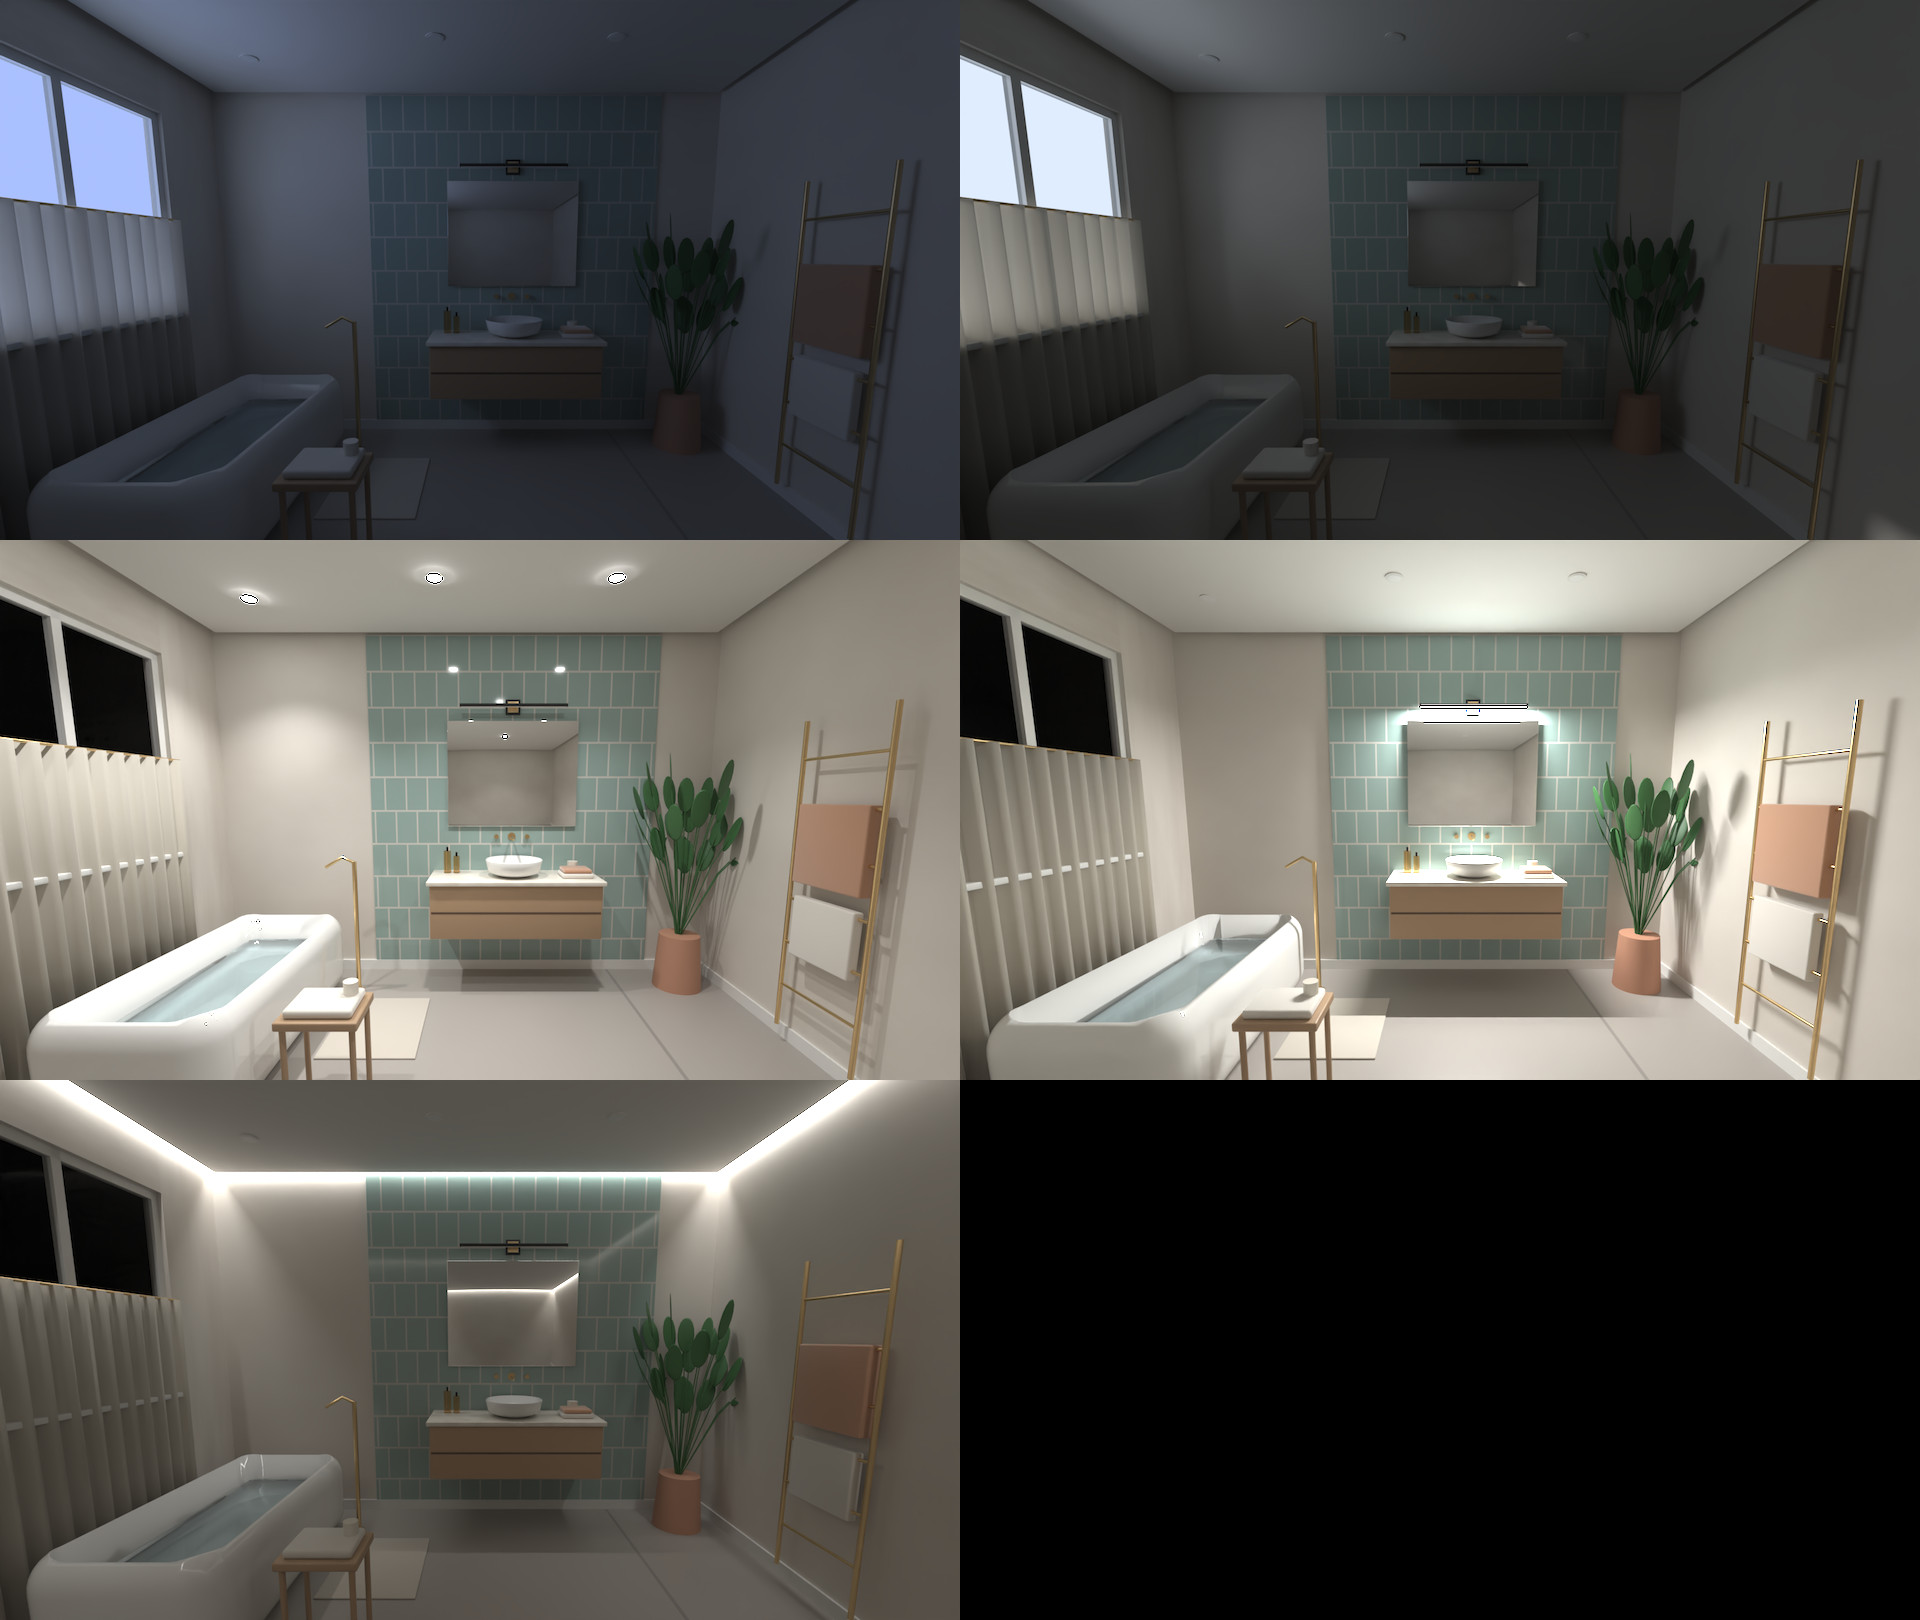
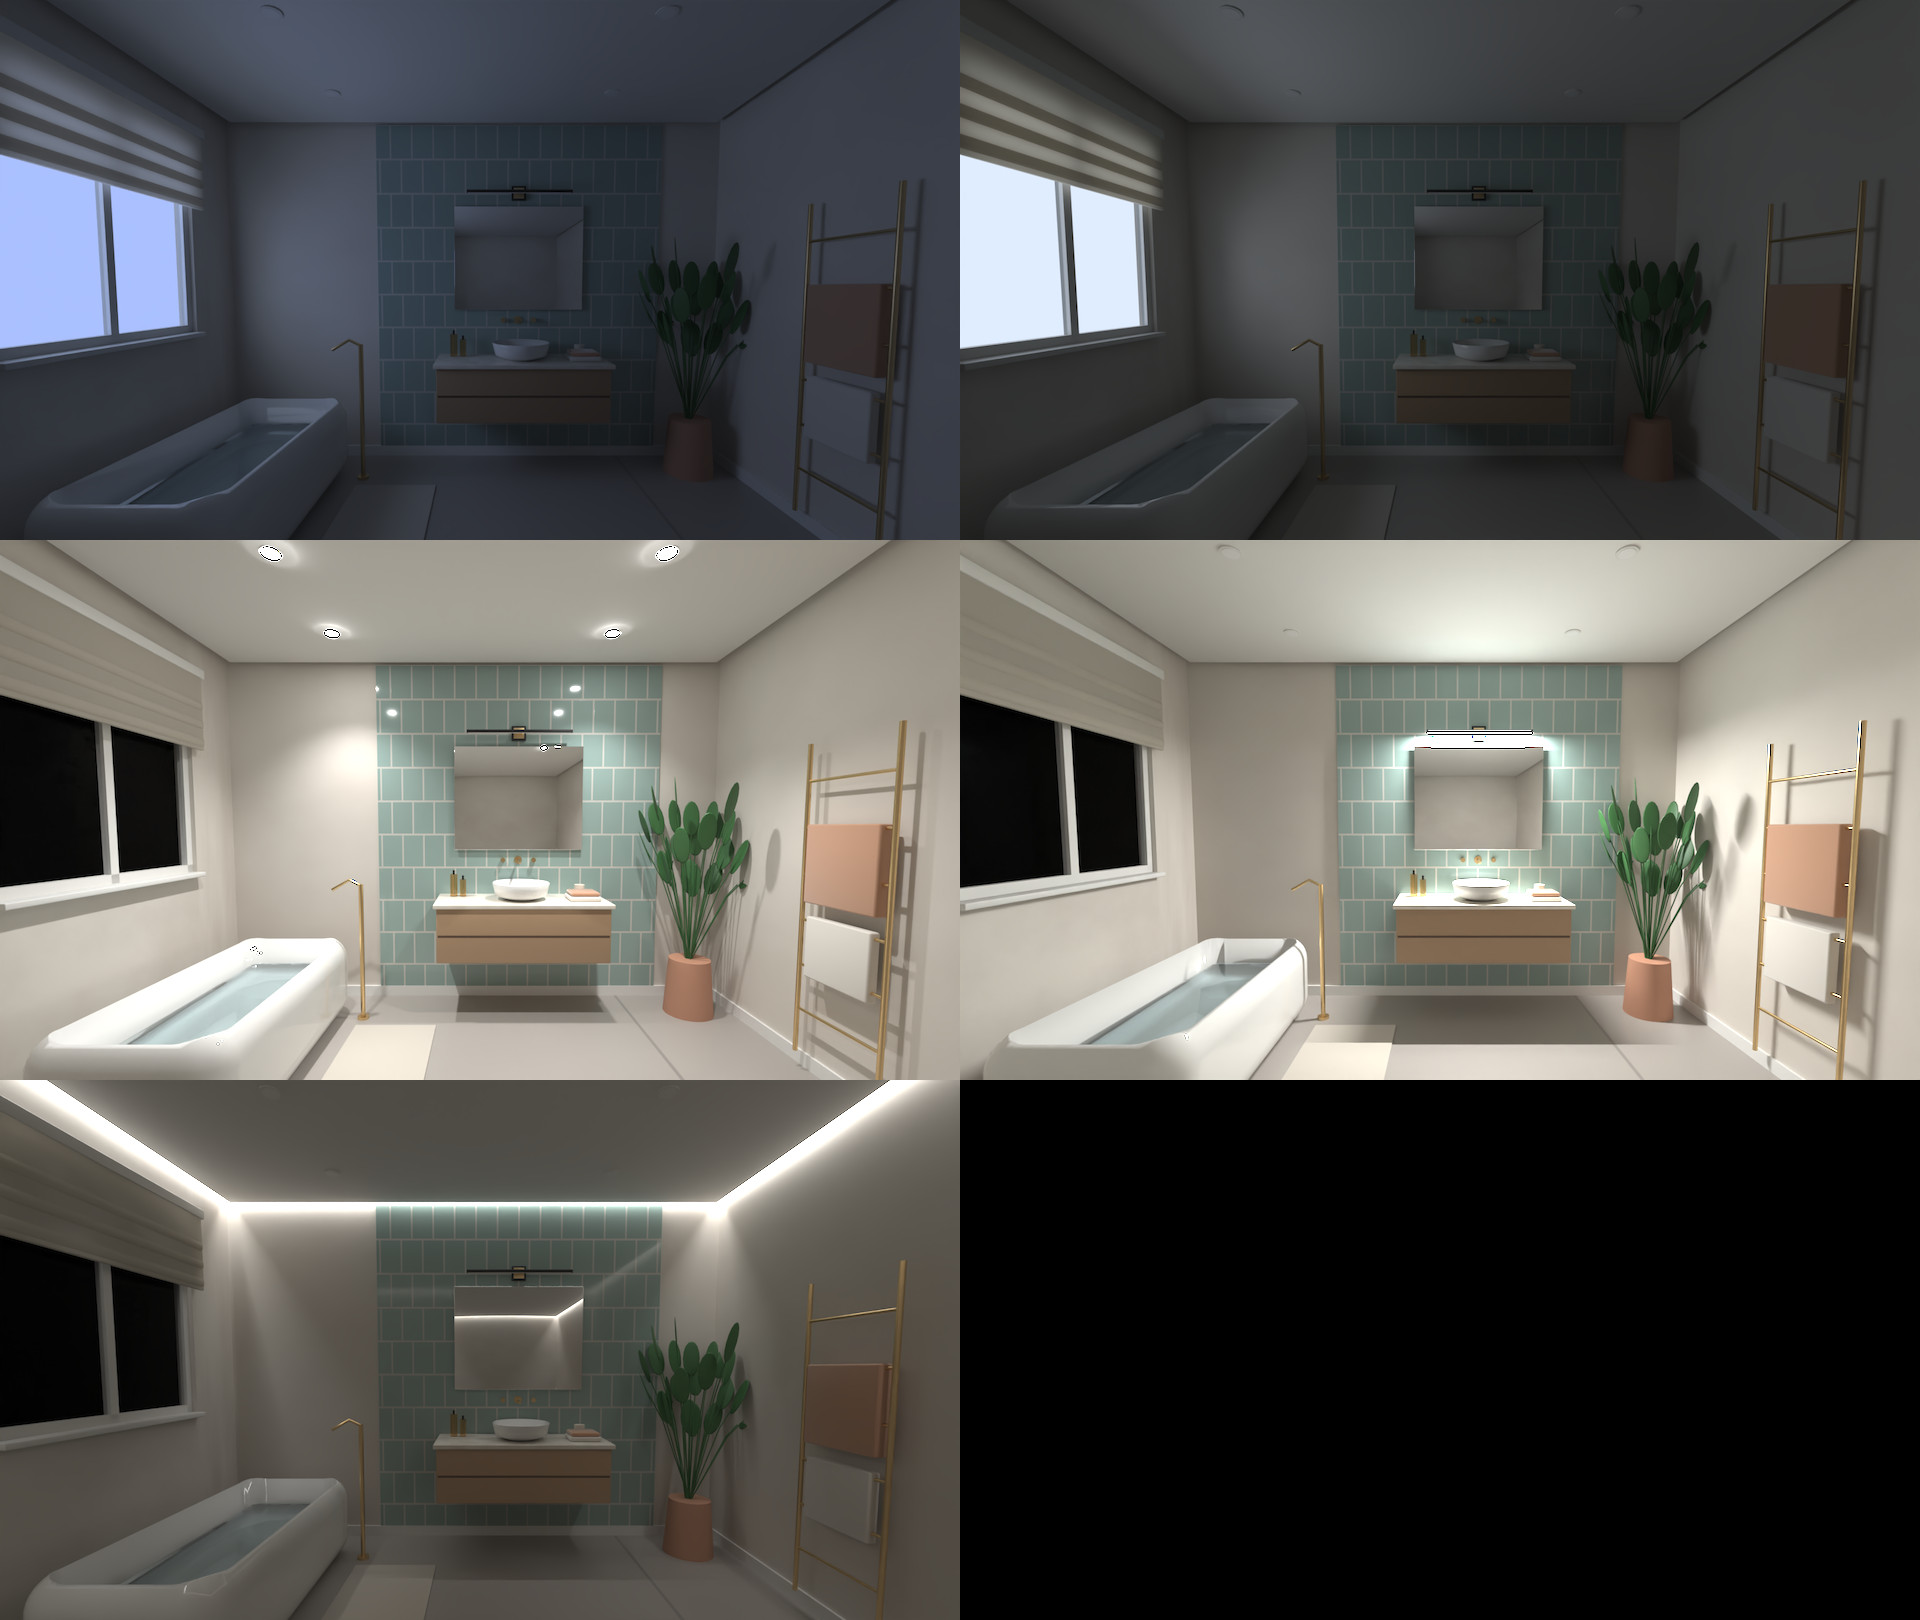
Ванная: 4 софита симметрично, римская штора, без табурета; подписи профиля и ленты Geniled

diff --git a/rooms/rooms.js b/rooms/rooms.js
@@ -77,11 +77,11 @@ const ROOMS = {
   },
   bath: {
     title:'Ванная', dir:BASE+'bath/',
-    note:'Встраиваемые софиты Ambrella IP44, светильник EGLO Peguera над зеркалом и LED-лента в «парящем» потолке. Всё есть в каталоге.',
+    note:'Встраиваемые софиты Ambrella IP44, светильник EGLO Peguera над зеркалом и «парящий» потолок: профиль для ГКЛ с влагозащищённой лентой Geniled. Всё есть в каталоге.',
     lights:[
-      {id:'down',   name:'Софиты Ambrella TN6630 ×5', prod:'IP44, GX53 · 630 сом', hs:[[.4525,.0728],[.6424,.0728],[.2595,.1115]]},
-      {id:'mirror', name:'Над зеркалом EGLO Peguera', prod:'Латунь и чёрный, 80 см · 9 300 сом', hs:[[.5352,.3094]]},
-      {id:'cove',   name:'Парящий потолок',           prod:'LED-лента в теневом зазоре', hs:[[.3095,.1565],[.8076,.0831]]},
+      {id:'down',   name:'Софиты Ambrella TN6630 ×4', prod:'IP44, GX53 · 630 сом', hs:[[.2822,.0279],[.6949,.0279],[.3457,.1753],[.638,.1753]]},
+      {id:'mirror', name:'Над зеркалом EGLO Peguera', prod:'Латунь и чёрный, 80 см · 9 300 сом', hs:[[.5414,.3576]]},
+      {id:'cove',   name:'Парящий потолок',           prod:'Профиль для ГКЛ 0,9 с лентой (парящий) 3000 мм + лента Geniled 03592 IP65 · 2 950 сом / 5 м', hs:[[.3227,.2132],[.8039,.1423]]},
     ],
     scenes:[
       {name:'Утро',    k:4000, v:{down:1, mirror:1, cove:.5}},
